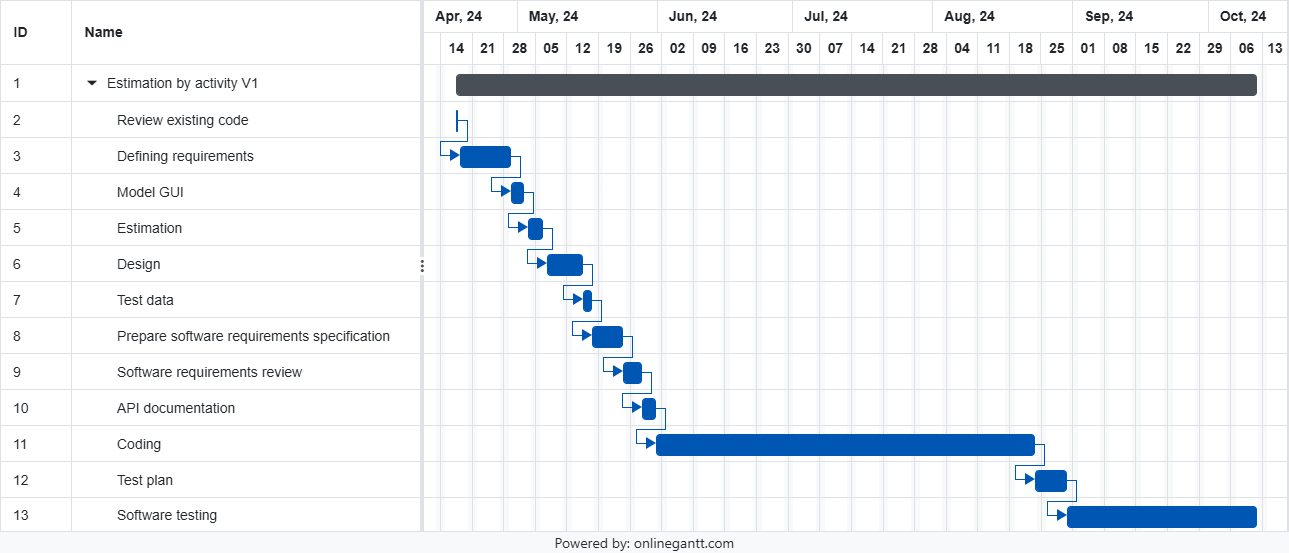
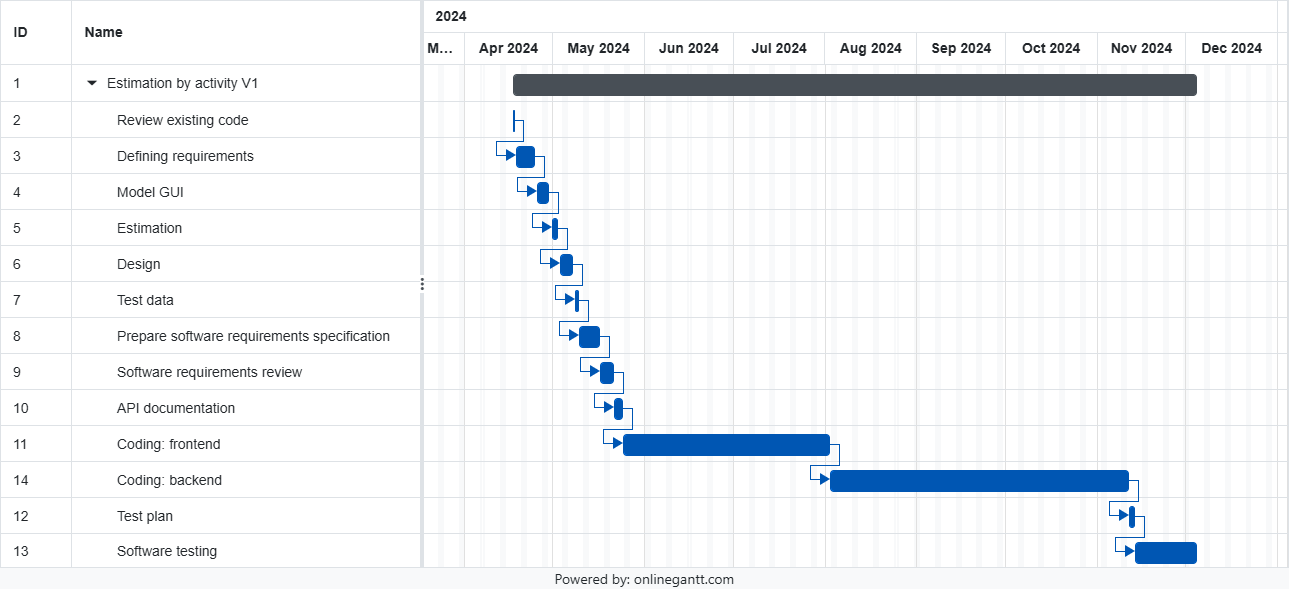
Fixed ActivitiesGantt V1 and V2

diff --git a/EstimationV1.md b/EstimationV1.md
@@ -10,6 +10,9 @@ Consider the EZElectronics project in CURRENT version (as given by the teachers)
 
 # Estimate by size
 
+### Details
+
+
 ###
 
 |                                                                                                        | Estimate  |
